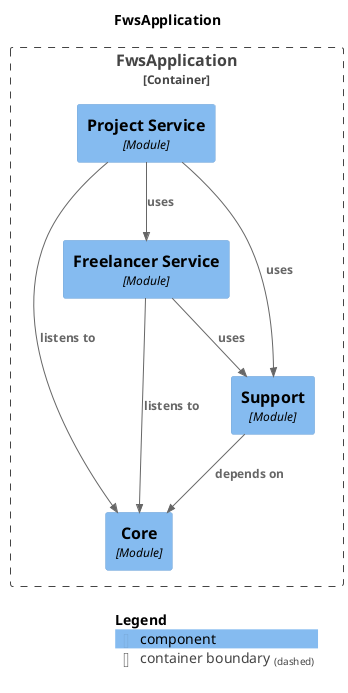
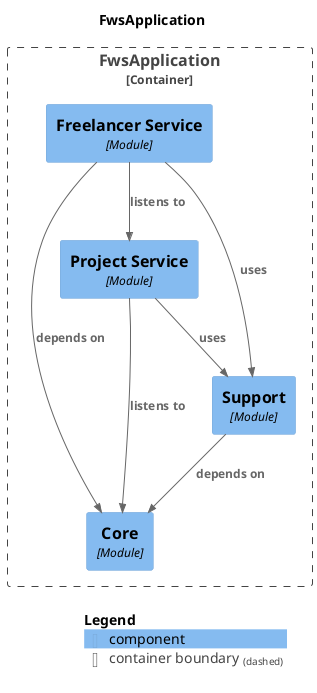
Move FreelancerJoinedProject back to project's domain

diff --git a/src/test/java/io/github/krloxz/fws/project/ProjectsApiTest.java b/src/test/java/io/github/krloxz/fws/project/ProjectsApiTest.java
@@ -21,13 +21,15 @@ import static org.springframework.test.web.servlet.result.MockMvcResultMatchers.
 import org.junit.jupiter.api.BeforeEach;
 import org.junit.jupiter.api.Test;
 import org.springframework.boot.test.mock.mockito.MockBean;
-import org.springframework.hateoas.EntityModel;
-import org.springframework.http.HttpStatus;
-import org.springframework.web.server.ResponseStatusException;
 
-import io.github.krloxz.fws.freelancer.application.FreelancersApiController;
+import io.github.krloxz.fws.core.DomainException;
+import io.github.krloxz.fws.core.FreelancerId;
+import io.github.krloxz.fws.core.PersonName;
+import io.github.krloxz.fws.freelancer.application.dtos.FreelancerDto;
 import io.github.krloxz.fws.project.application.ProjectDto;
 import io.github.krloxz.fws.project.application.ProjectDtoBuilder;
+import io.github.krloxz.fws.project.domain.Freelancer;
+import io.github.krloxz.fws.project.domain.FreelancerService;
 import io.github.krloxz.fws.test.FwsApplicationTest;
 
 /**
@@ -39,16 +41,16 @@ import io.github.krloxz.fws.test.FwsApplicationTest;
 class ProjectsApiTest {
 
   @MockBean
-  private FreelancersApiController freelancersApiController;
+  private FreelancerService freelancerService;
 
   @BeforeEach
   void setup() {
-    when(this.freelancersApiController.get(tonyStark().id().orElseThrow()))
-        .thenReturn(EntityModel.of(tonyStark()));
-    when(this.freelancersApiController.get(steveRogers().id().orElseThrow()))
-        .thenReturn(EntityModel.of(steveRogers()));
-    when(this.freelancersApiController.get(unregistered().id().orElseThrow()))
-        .thenThrow(new ResponseStatusException(HttpStatus.NOT_FOUND));
+    when(this.freelancerService.findFreelancer(new FreelancerId(tonyStark().id().orElseThrow())))
+        .thenReturn(toProjectFreelancer(tonyStark()));
+    when(this.freelancerService.findFreelancer(new FreelancerId(steveRogers().id().orElseThrow())))
+        .thenReturn(toProjectFreelancer(steveRogers()));
+    when(this.freelancerService.findFreelancer(new FreelancerId(unregistered().id().orElseThrow())))
+        .thenThrow(new DomainException("Freelancer is not allowed to join this project"));
   }
 
   @Test
@@ -187,13 +189,20 @@ class ProjectsApiTest {
         .contains(embedded("projects[0]._embedded.freelancers").withLength(0));
   }
 
-  ProjectDto avengers() {
+  private ProjectDto avengers() {
     return new ProjectDtoBuilder()
         .id("eda7cd79-1976-46fc-81ef-fe5f6dba7aa5")
         .name("Avengers")
         .description("Earth's mightiest heroes")
         .requiredHours(200)
         .build();
+  }
+
+  private Freelancer toProjectFreelancer(final FreelancerDto dto) {
+    return new Freelancer(
+        new FreelancerId(dto.id().orElseThrow()),
+        PersonName.builder().first(dto.firstName()).last(dto.lastName()).build(),
+        dto.weeklyAvailability());
   }
 
 }

diff --git a/src/main/java/io/github/krloxz/fws/project/application/ProjectDtoAssembler.java b/src/main/java/io/github/krloxz/fws/project/application/ProjectDtoAssembler.java
@@ -1,5 +1,6 @@
 package io.github.krloxz.fws.project.application;
 
+import static io.github.krloxz.fws.support.AffordanceLink.affordanceLink;
 import static io.github.krloxz.fws.support.AffordanceLink.affordanceLinkTo;
 import static org.springframework.hateoas.server.mvc.WebMvcLinkBuilder.methodOn;
 
@@ -15,7 +16,6 @@ import org.springframework.hateoas.mediatype.hal.HalModelBuilder;
 import org.springframework.hateoas.server.RepresentationModelAssembler;
 import org.springframework.stereotype.Component;
 
-import io.github.krloxz.fws.freelancer.application.FreelancersApiController;
 import io.github.krloxz.fws.support.AffordanceLink;
 
 /**
@@ -68,7 +68,7 @@ class ProjectDtoAssembler implements RepresentationModelAssembler<ProjectDto, En
 
   private EntityModel<FreelancerDto> toModel(final FreelancerDto dto) {
     return EntityModel.of(dto)
-        .add(affordanceLinkTo(methodOn(FreelancersApiController.class).get(dto.id().toString())).withSelfRel());
+        .add(affordanceLink("/freelancers/" + dto.id()).withSelfRel());
   }
 
   private boolean isProjectFullyAllocated(final ProjectDto dto) {

diff --git a/src/main/java/io/github/krloxz/fws/support/AffordanceLink.java b/src/main/java/io/github/krloxz/fws/support/AffordanceLink.java
@@ -10,6 +10,7 @@ import org.springframework.hateoas.Link;
 import org.springframework.hateoas.LinkRelation;
 import org.springframework.hateoas.MediaTypes;
 import org.springframework.http.HttpMethod;
+import org.springframework.web.servlet.support.ServletUriComponentsBuilder;
 
 /**
  * A {@link Link} that renders as an affordance.
@@ -77,6 +78,17 @@ public class AffordanceLink extends Link {
         .map(HttpMethod::name)
         .orElse("GET");
     return new AffordanceLink(link.getHref(), relation, method);
+  }
+
+  /**
+   * Creates an affordance link for the given path and the GET method.
+   *
+   * @param path
+   *        the path to create the affordance link for
+   * @return an affordance link for the given path
+   */
+  public static AffordanceLink affordanceLink(final String path) {
+    return toAffordanceLink(Link.of(ServletUriComponentsBuilder.fromCurrentContextPath().toUriString() + path));
   }
 
   /**

diff --git a/src/test/java/io/github/krloxz/fws/freelancer/FreelancerActions.java b/src/test/java/io/github/krloxz/fws/freelancer/FreelancerActions.java
@@ -4,13 +4,13 @@ import java.util.Optional;
 import java.util.UUID;
 
 import io.github.krloxz.fws.core.FreelancerId;
-import io.github.krloxz.fws.core.FreelancerJoinedProject;
 import io.github.krloxz.fws.core.ProjectId;
 import io.github.krloxz.fws.freelancer.application.dtos.AddressDto;
 import io.github.krloxz.fws.freelancer.application.dtos.CommunicationChannelDto;
 import io.github.krloxz.fws.freelancer.application.dtos.FreelancerDto;
 import io.github.krloxz.fws.freelancer.application.dtos.HourlyWageDto;
 import io.github.krloxz.fws.project.application.ProjectDto;
+import io.github.krloxz.fws.project.domain.FreelancerJoinedProject;
 import io.github.krloxz.fws.test.DomainEventAction;
 import io.github.krloxz.fws.test.gherkin.restapi.RestApiAction;
 

diff --git a/src/main/java/io/github/krloxz/fws/freelancer/application/FreelancerEventListener.java b/src/main/java/io/github/krloxz/fws/freelancer/application/FreelancerEventListener.java
@@ -3,8 +3,8 @@ package io.github.krloxz.fws.freelancer.application;
 import org.springframework.modulith.events.ApplicationModuleListener;
 import org.springframework.stereotype.Component;
 
-import io.github.krloxz.fws.core.FreelancerJoinedProject;
 import io.github.krloxz.fws.freelancer.domain.FreelancerRepository;
+import io.github.krloxz.fws.project.domain.FreelancerJoinedProject;
 import io.github.krloxz.fws.support.DomainEventPublisher;
 
 /**

diff --git a/src/main/java/io/github/krloxz/fws/project/domain/Project.java b/src/main/java/io/github/krloxz/fws/project/domain/Project.java
@@ -10,7 +10,6 @@ import org.jmolecules.ddd.annotation.Identity;
 import io.github.krloxz.fws.core.DomainEventSupplier;
 import io.github.krloxz.fws.core.DomainException;
 import io.github.krloxz.fws.core.FreelancerId;
-import io.github.krloxz.fws.core.FreelancerJoinedProject;
 import io.github.krloxz.fws.core.ProjectId;
 
 /**

diff --git a/src/main/java/io/github/krloxz/fws/project/domain/FreelancerJoinedProject.java b/src/main/java/io/github/krloxz/fws/project/domain/FreelancerJoinedProject.java
@@ -1,6 +1,9 @@
-package io.github.krloxz.fws.core;
+package io.github.krloxz.fws.project.domain;
 
 import org.jmolecules.event.types.DomainEvent;
+
+import io.github.krloxz.fws.core.FreelancerId;
+import io.github.krloxz.fws.core.ProjectId;
 
 /**
  * A domain event signaling that a freelancer has joined a project.

diff --git a/src/main/java/io/github/krloxz/fws/project/domain/package-info.java b/src/main/java/io/github/krloxz/fws/project/domain/package-info.java
@@ -1,3 +1,4 @@
 @org.jmolecules.architecture.onion.simplified.DomainRing
+@org.springframework.modulith.NamedInterface("domain")
 @org.immutables.value.Value.Style(depluralize = true)
 package io.github.krloxz.fws.project.domain;

diff --git a/src/main/java/io/github/krloxz/fws/freelancer/infra/BasicFreelancerService.java b/src/main/java/io/github/krloxz/fws/freelancer/infra/BasicFreelancerService.java
@@ -1,4 +1,4 @@
-package io.github.krloxz.fws.project.infra;
+package io.github.krloxz.fws.freelancer.infra;
 
 import java.util.Optional;
 import java.util.UUID;
